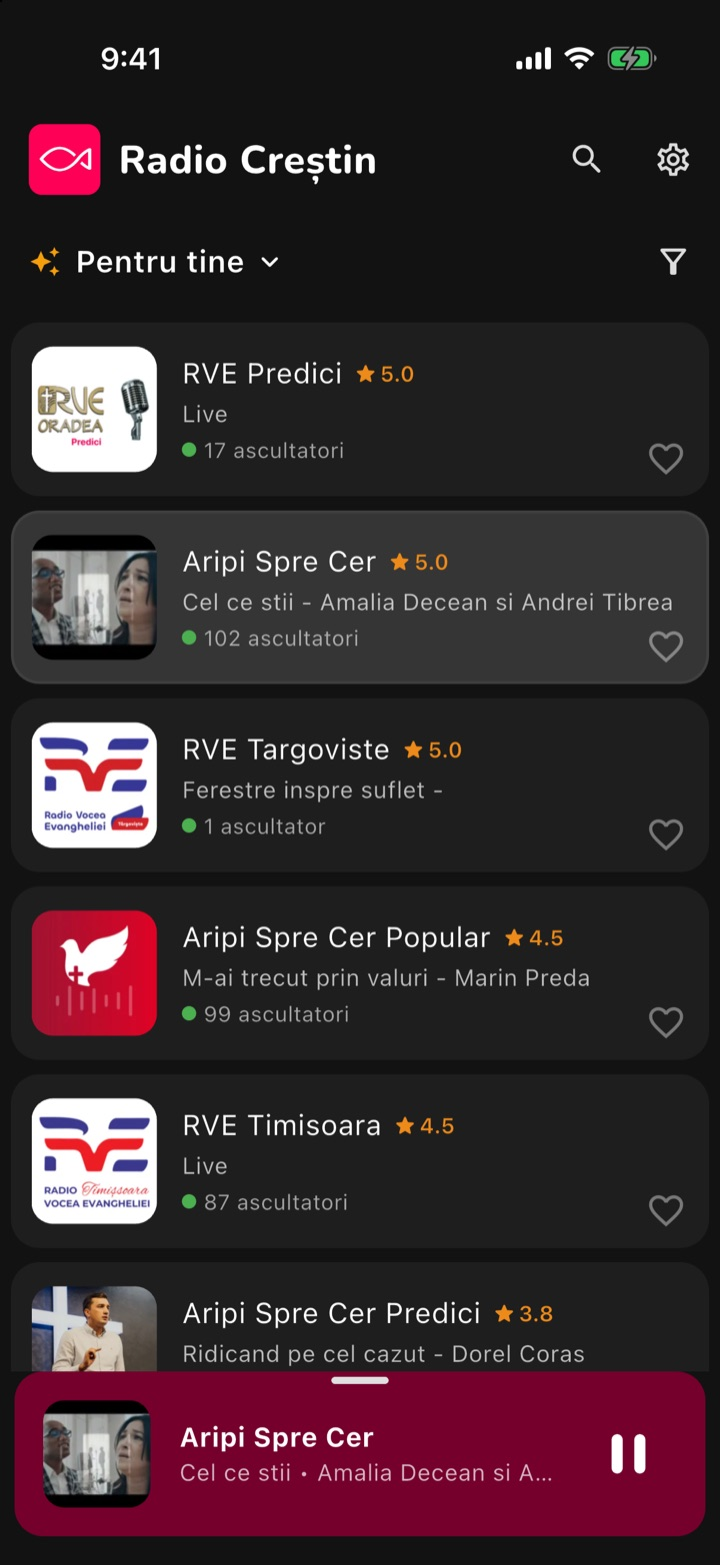
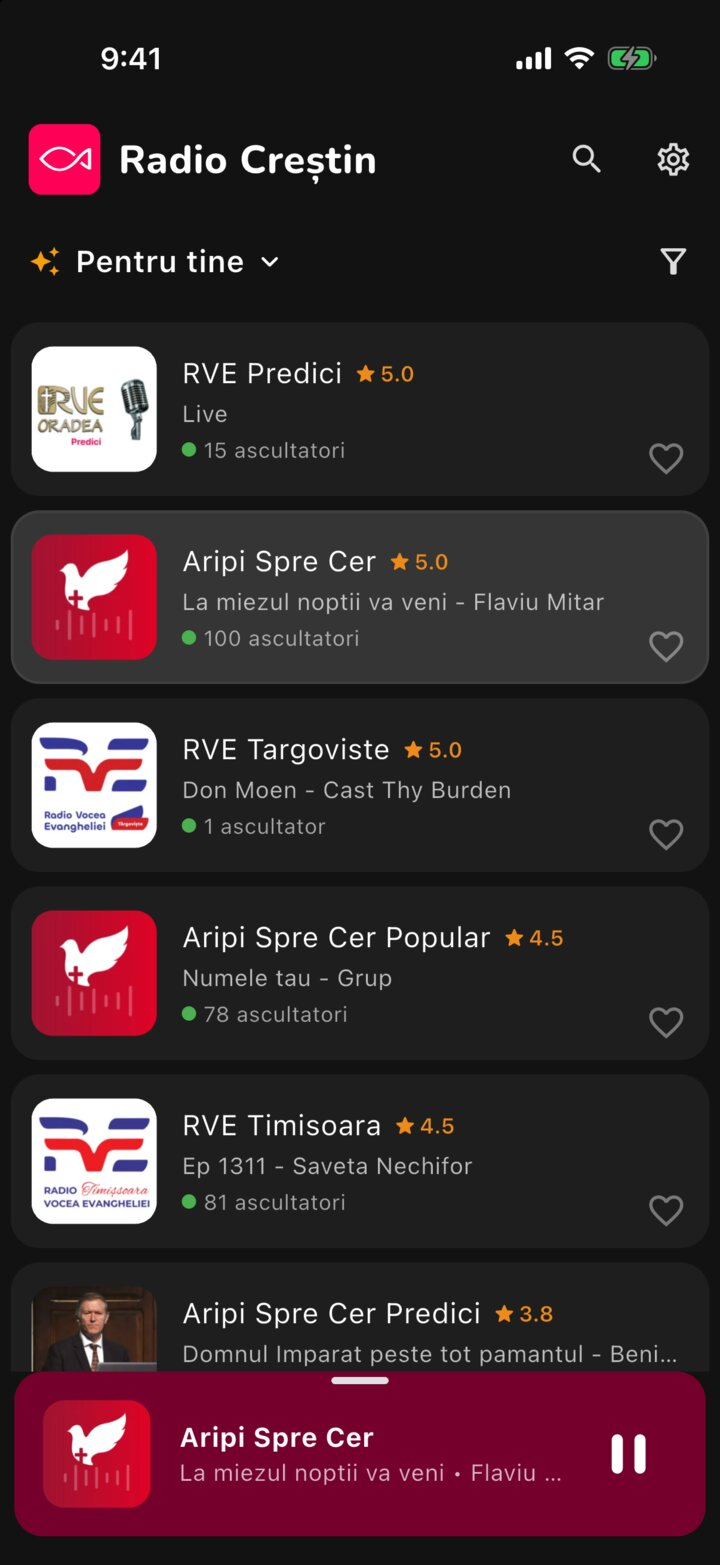
[main] - the README's How it works is a brand-coloured diagram (stations → backend → API → app → lock screen, car, widgets and Siri, casting) that reads well in GitHub's light and dark themes, with three short emoji bullets under it; the Home and player screenshots now show Aripi Spre Cer with its d

diff --git a/README.md b/README.md
@@ -51,17 +51,37 @@ Setup for every device: [`release-notes/SETUP.md`](release-notes/SETUP.md).
 
 ```mermaid
 flowchart LR
-    S["Radio stations"] --> B["radio-crestin-backend<br/>now playing · HLS re-streaming"]
-    B --> API["api.radiocrestin.ro"]
-    API --> APP["This app"]
-    APP --> OUT["Lock screen · CarPlay · Android Auto<br/>widgets · Siri · Chromecast · AirPlay"]
+    S("📻 <b>Radio stations</b><br/>60+ live streams")
+    B("🎙 <b>Backend</b><br/>song on air · listeners<br/>HLS re-streaming")
+    API("🌐 <b>API</b><br/>api.radiocrestin.ro")
+    APP("📱 <b>Radio Crestin app</b><br/>Flutter<br/>+ SwiftUI on Apple TV")
+    O1("🔒 Lock screen<br/>& notification")
+    O2("🚗 CarPlay<br/>& Android Auto")
+    O3("📲 Widgets<br/>& Siri")
+    O4("🔊 Chromecast<br/>& AirPlay")
+
+    S --> B --> API --> APP
+    APP --> O1 & O2 & O3 & O4
+
+    classDef source fill:#2B2B2B,stroke:#555555,color:#FFFFFF
+    classDef backend fill:#8F0133,stroke:#8F0133,color:#FFFFFF
+    classDef api fill:#C2185B,stroke:#C2185B,color:#FFFFFF
+    classDef app fill:#E91E63,stroke:#E91E63,color:#FFFFFF
+    classDef out fill:#FCE4EC,stroke:#E91E63,color:#5A0A26
+    class S source
+    class B backend
+    class API api
+    class APP app
+    class O1,O2,O3,O4 out
 ```
 
-[radio-crestin-backend](https://github.com/radio-crestin/radio-crestin-backend) keeps the station list,
-reads the song each station plays and re-streams it as HLS. The app (Flutter, plus a native SwiftUI Apple
-TV app in `apple_tv/`) reads that API and plays each station's streams in order, HLS first, then MP3, moving
-on when one fails. The same API feeds the [radiocrestin.ro](https://github.com/radio-crestin/radiocrestin.ro)
-website.
+- 🎙 **The backend** ([radio-crestin-backend](https://github.com/radio-crestin/radio-crestin-backend))
+  keeps the station list, reads the song each station plays, counts listeners and re-streams every
+  station as HLS.
+- 🌐 **The API** serves that to this app and to the
+  [radiocrestin.ro](https://github.com/radio-crestin/radiocrestin.ro) website.
+- 🔁 **The app** plays a station's streams in order, HLS first, then MP3, and switches on its own when one
+  fails. The lock screen, the car, the widgets and Siri all drive this same player.
 
 ## 🛠 Quick start for developers
 
